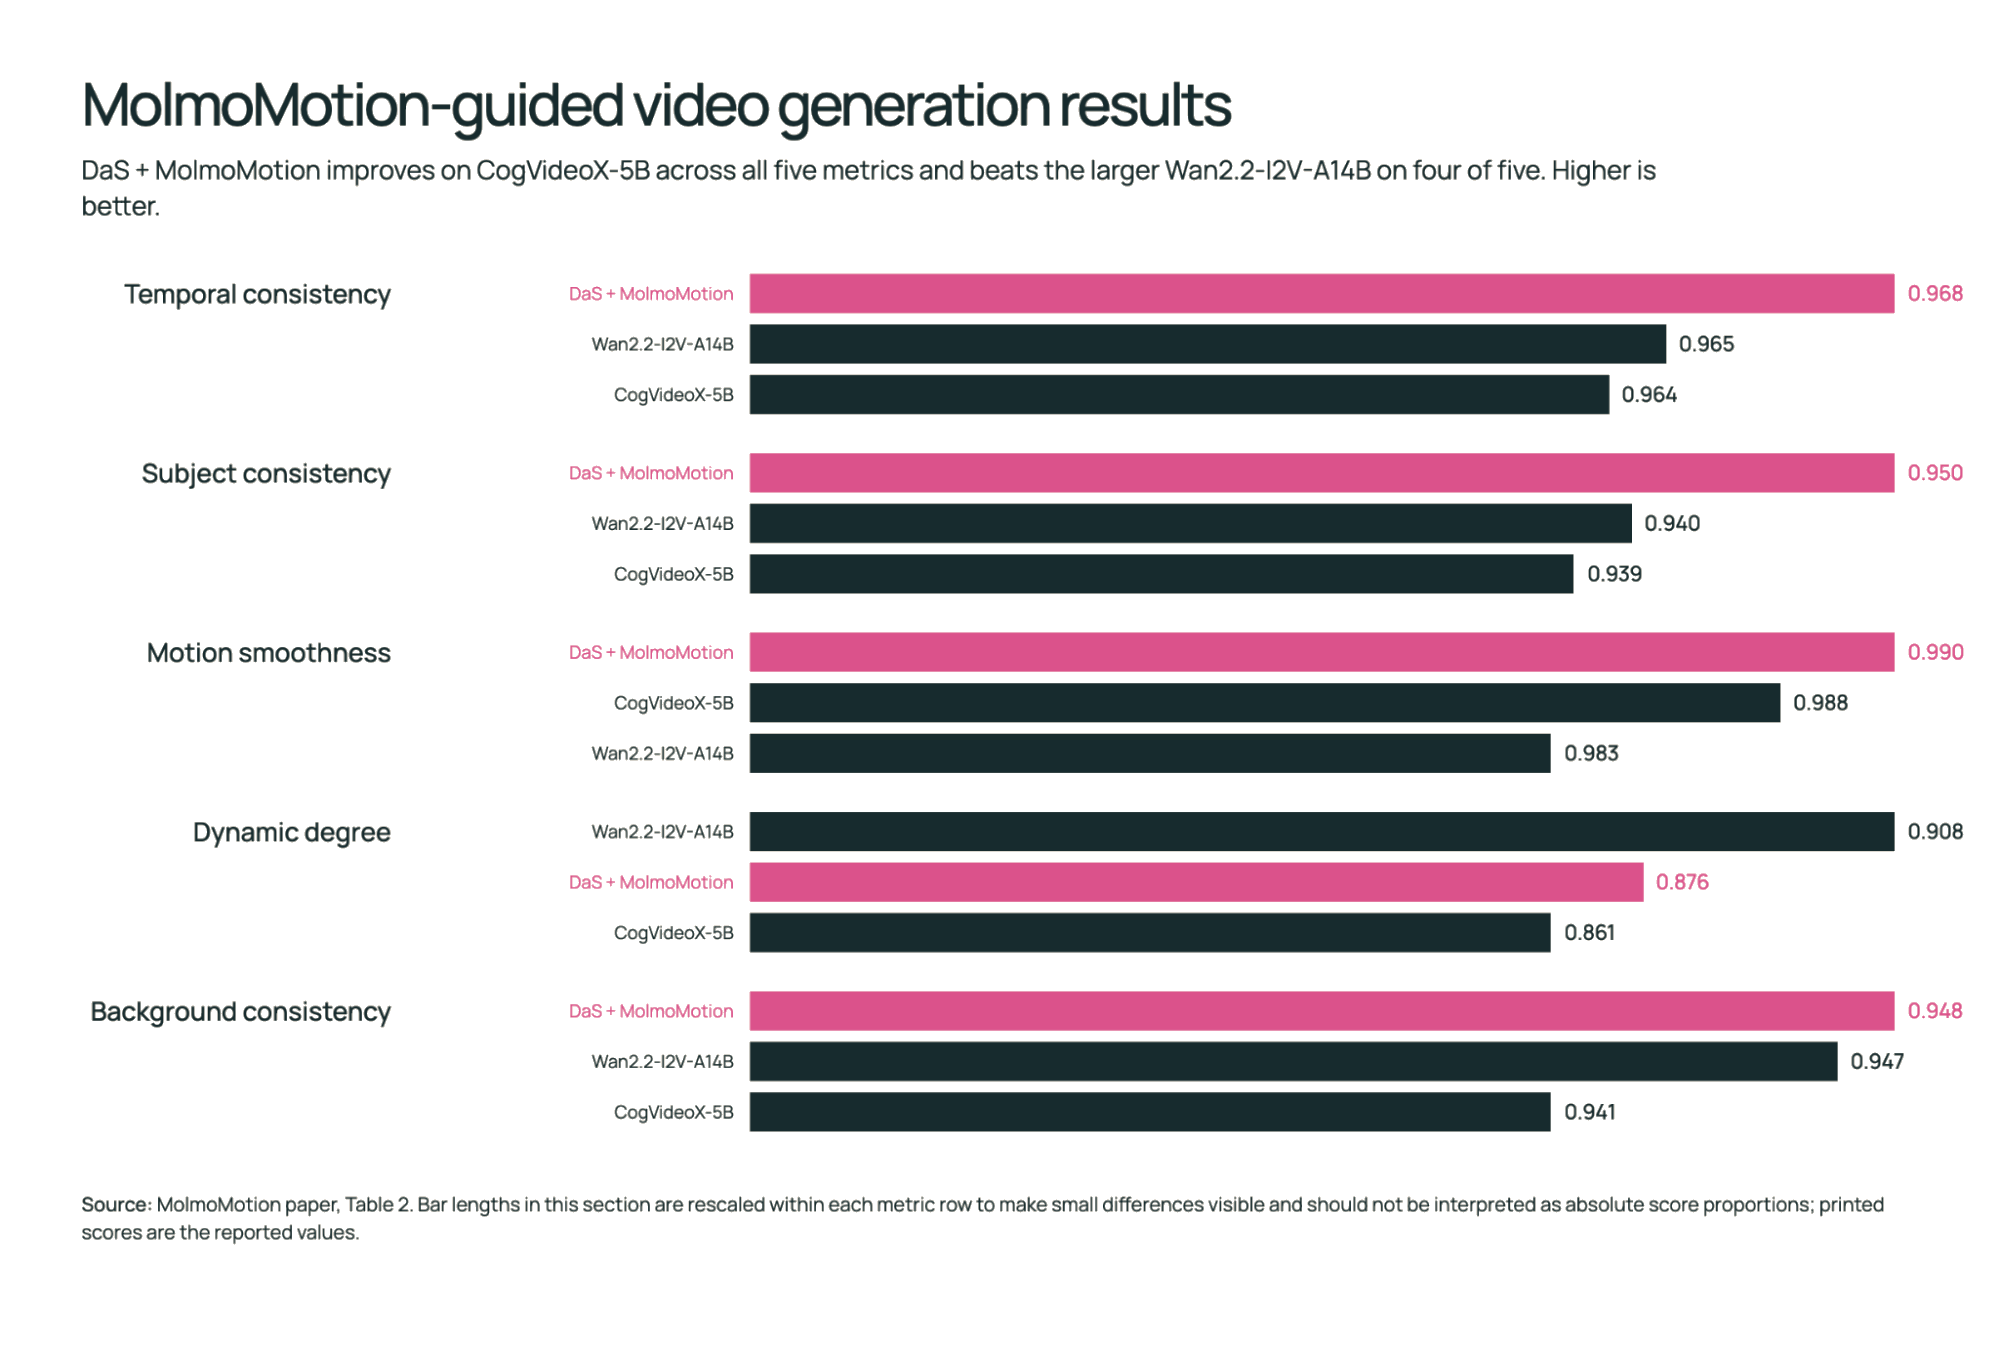
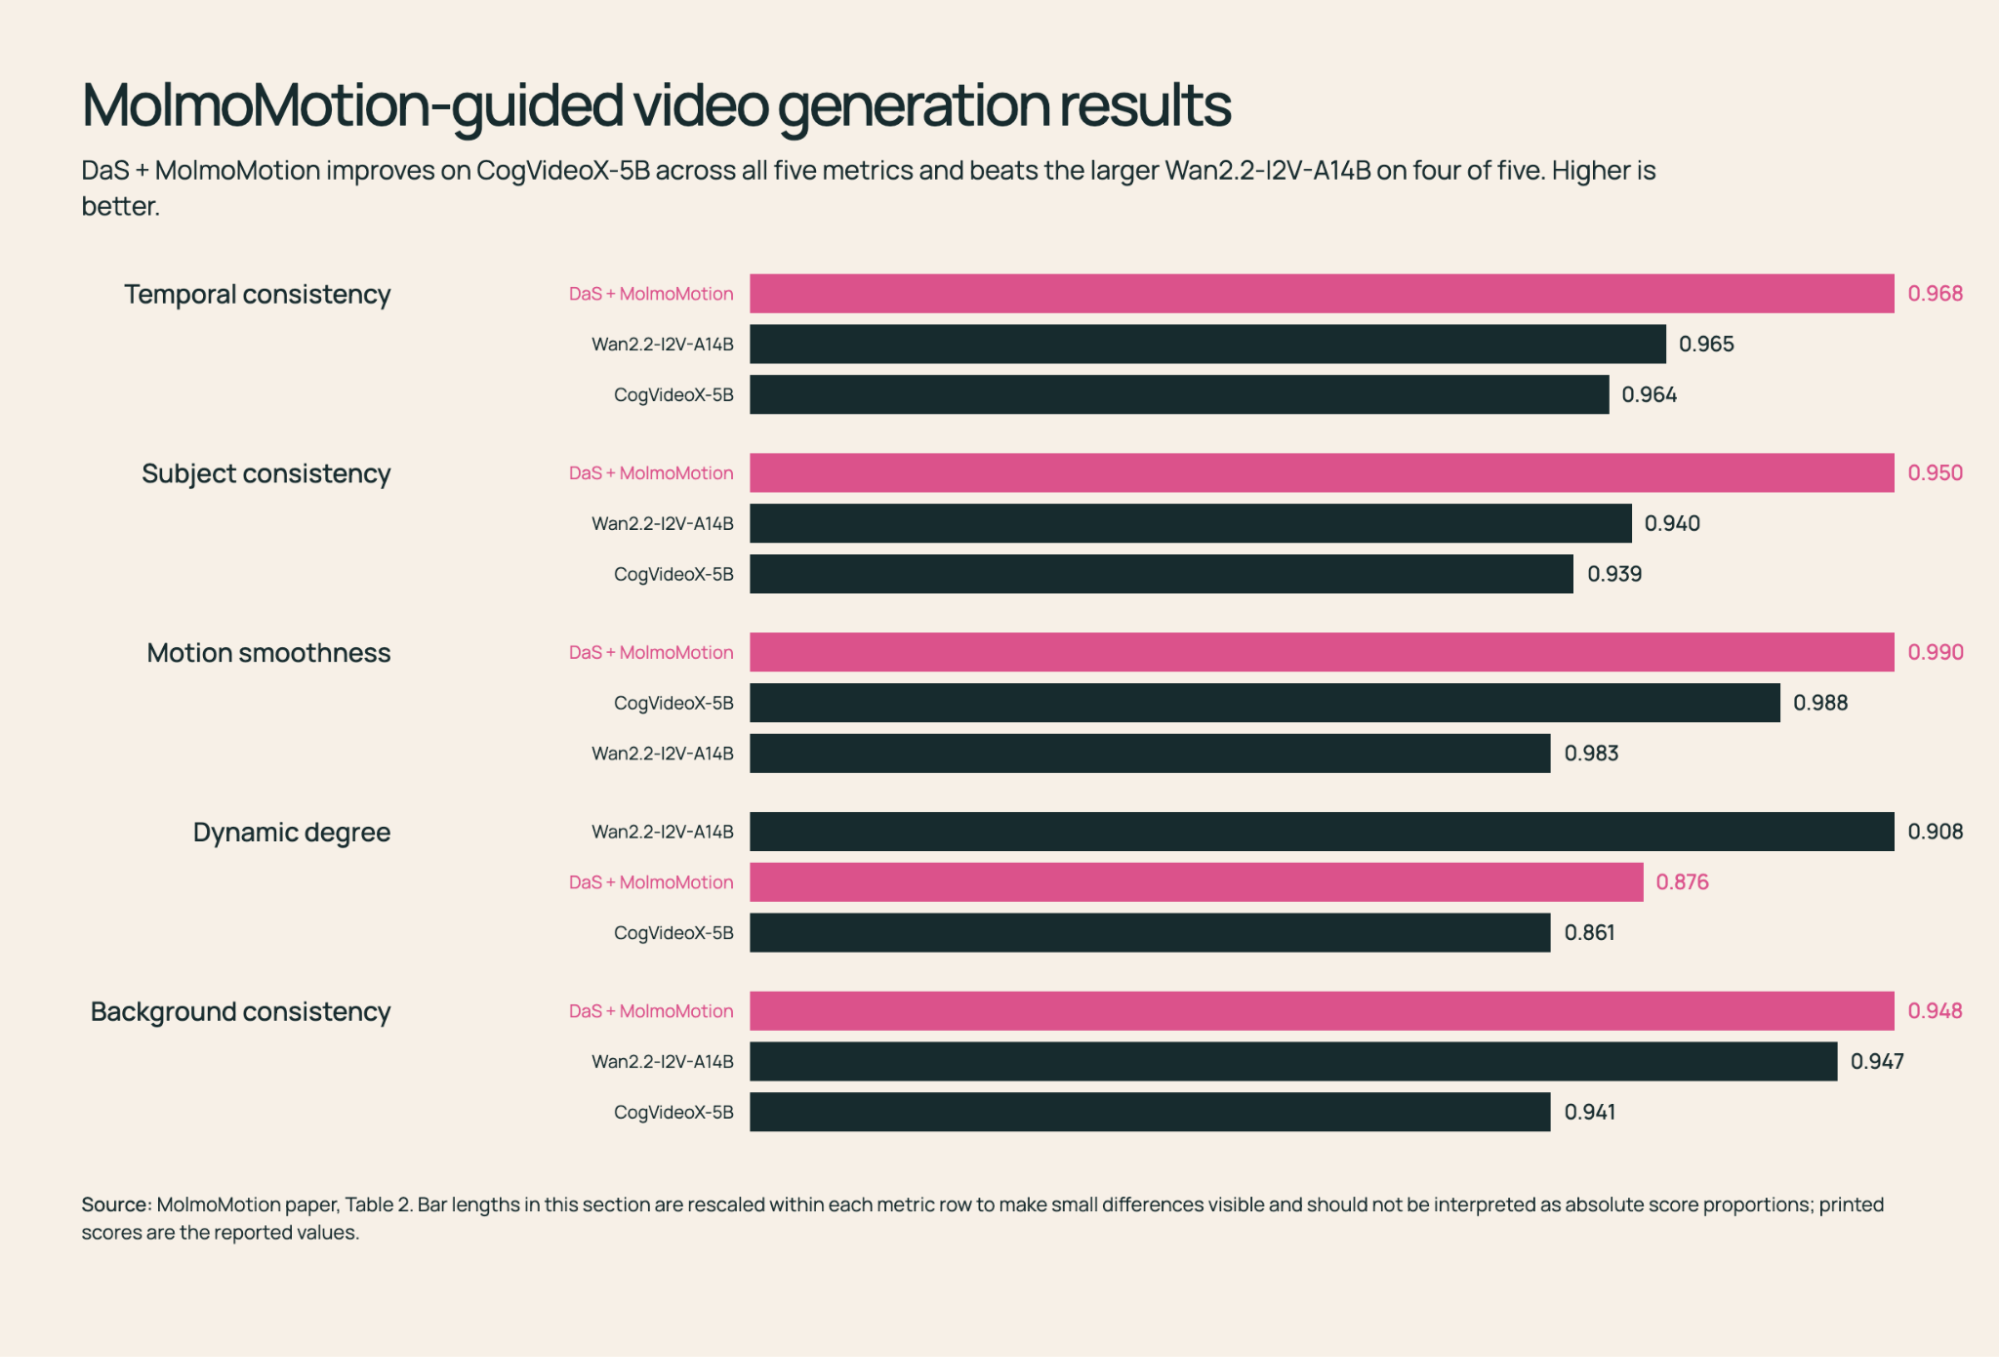
Cream background; tint white-bg clips/figures to cream so they blend; remove card shadow outline; center galleries; restyle selector pills

diff --git a/styles.css b/styles.css
@@ -2,8 +2,8 @@
 :root {
   --ai2-dark: #0a2c27;          /* hero deep green */
   --ai2-dark-2: #0e3a33;        /* slightly lighter green */
-  --ai2-cream: #ffffff;         /* body background (white) */
-  --ai2-cream-2: #ffffff;       /* figure/clip backdrop */
+  --ai2-cream: #f7f0e7;         /* body background (AI2 cream) */
+  --ai2-cream-2: #f7f0e7;       /* figure/clip backdrop */
   --ai2-text: #102f2a;          /* body text on cream */
   --ai2-text-soft: #3f5b54;     /* muted body text */
   --ai2-light: #f3efe6;         /* hero title text */
@@ -364,15 +364,7 @@ figure video {
 
 /* tighten captioned method labels reused from blog already (.vid-method, .demo-label) */
 
-/* ===================== Gallery selector + white-bg polish ===================== */
-
-/* soft shadow so white-bg clips/figures read as cards on the white page */
-figure img,
-figure video,
-.crop,
-.gallery-stage .stage-single .crop {
-  box-shadow: 0 2px 14px rgba(16, 47, 42, 0.10);
-}
+/* ===================== Gallery selector ===================== */
 
 /* left-crop wrapper: hides the jittering line on the left border of the clips */
 .crop {
@@ -391,35 +383,37 @@ figure video,
   background: var(--ai2-cream-2);
 }
 
-/* gallery */
+/* gallery: break out of the text column and center on the page */
 .gallery {
   width: min(980px, 94vw);
-  margin: 26px auto 0;
+  margin: 26px 0 0;
+  margin-left: 50%;
+  transform: translateX(-50%);
 }
 .gallery-tabs {
   display: flex;
   flex-wrap: wrap;
-  gap: 8px;
+  gap: 10px;
   justify-content: center;
-  margin-bottom: 22px;
+  margin-bottom: 26px;
 }
 .gallery-tab {
   font-family: inherit;
-  font-size: 13.5px;
+  font-size: 14px;
   font-weight: 600;
-  color: var(--ai2-text-soft);
-  background: #fff;
-  border: 1px solid rgba(16, 47, 42, 0.18);
-  border-radius: 999px;
-  padding: 7px 15px;
-  max-width: 260px;
+  color: var(--ai2-text);
+  background: transparent;
+  border: 1.5px solid rgba(16, 47, 42, 0.22);
+  border-radius: 7px;
+  padding: 8px 16px;
+  max-width: 300px;
   white-space: nowrap;
   overflow: hidden;
   text-overflow: ellipsis;
   cursor: pointer;
   transition: color 0.15s ease, background 0.15s ease, border-color 0.15s ease;
 }
-.gallery-tab:hover { color: var(--ai2-text); border-color: var(--ai2-text); }
+.gallery-tab:hover { border-color: var(--ai2-text); background: rgba(16, 47, 42, 0.05); }
 .gallery-tab.active {
   background: var(--ai2-dark);
   color: var(--ai2-light);

diff --git a/index.html b/index.html
@@ -11,7 +11,7 @@
   <link rel="preconnect" href="https://fonts.gstatic.com" crossorigin />
   <link href="https://fonts.googleapis.com/css2?family=Manrope:wght@400;500;600;700;800&display=swap" rel="stylesheet" />
 
-  <link rel="stylesheet" href="styles.css?v=3" />
+  <link rel="stylesheet" href="styles.css?v=4" />
 </head>
 <body>
 